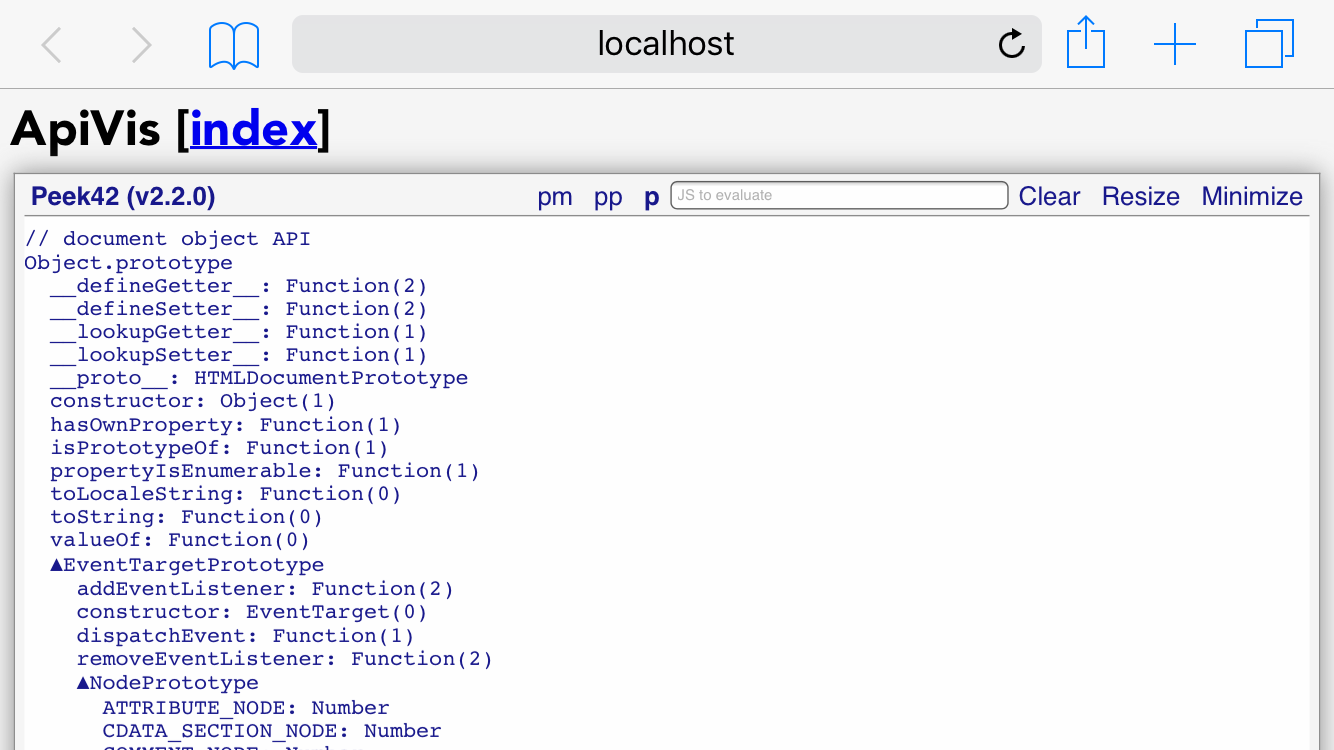
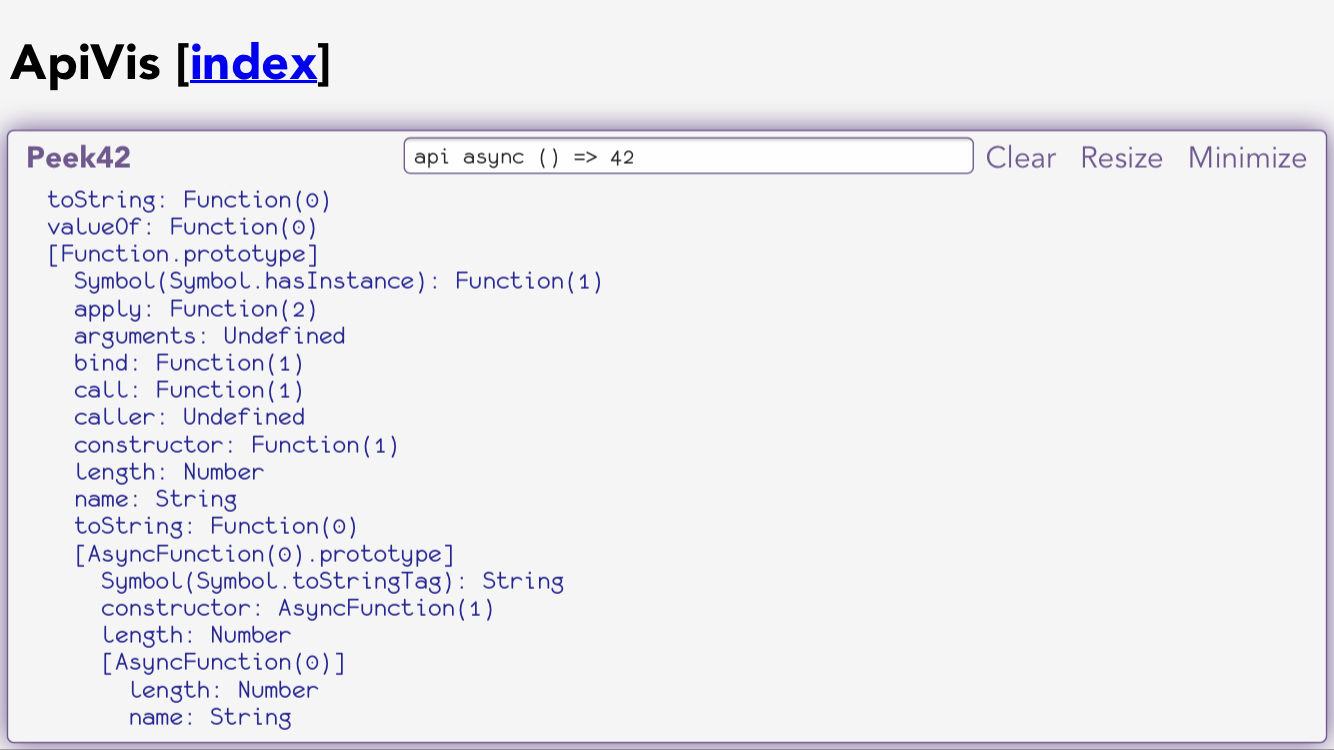
v1.3.0

diff --git a/README.md b/README.md
@@ -28,9 +28,9 @@ The following functions are available through the **apivis** (or the returned fr
 
 - `privateMembers(obj)` - returns an object containing the key/value pairs for the keys in `obj` beginning with underscore (considers all properties, not just the own ones)
 
-- `props(obj)` - returns (sorted) array of all *own* `obj` property names
+- `props(obj)` - returns (sorted) array of all *own* `obj` property names (including symbols)
 
-- `propsStr(obj, inst = obj, indent = '  ', level = 0)` - returns string representation for array of property names (including type information, separated by a newline and indented accordingly). The `inst` parameter is used by higher level functions to pass the actual `obj` instance (not the object reached through following the `__proto__`) for evaluating properties on prototypes higher in the chain
+- `propsStr(obj, inst = obj, indent = '  ', level = 0)` - returns string representation for array of property names (including type information, separated by a newline and indented accordingly). The `inst` parameter is used by higher level functions to pass the actual `obj` instance (not the object reached through following the `__proto__`) for evaluating properties on prototypes higher up the chain
 
 - `protos(obj)` - returns the prototype chain for `obj` (an array, the root is last)
 

diff --git a/RELNOTES.md b/RELNOTES.md
@@ -1,5 +1,11 @@
 # Release Notes
 
+## 1.3.0
+
+- Include symbol keyed properties
+- Use brackets around API nodes instead of up arrow symbol before them
+- Use undefined instead of null for properties that cannot be meaningfully evaluated
+
 ## 1.2.0
 
 Significantly improve typeStr heuristic resulting in much more useful API tree representation
